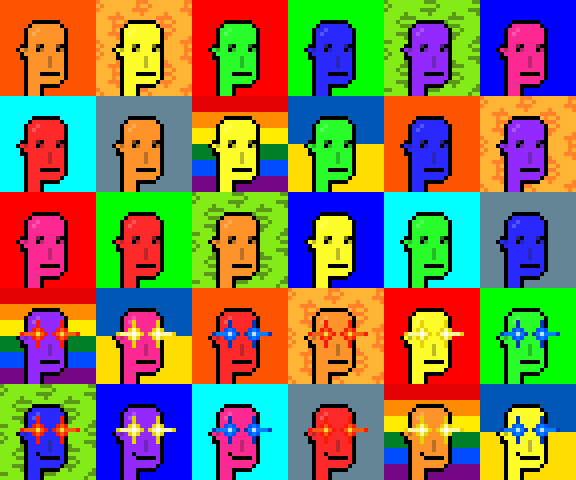
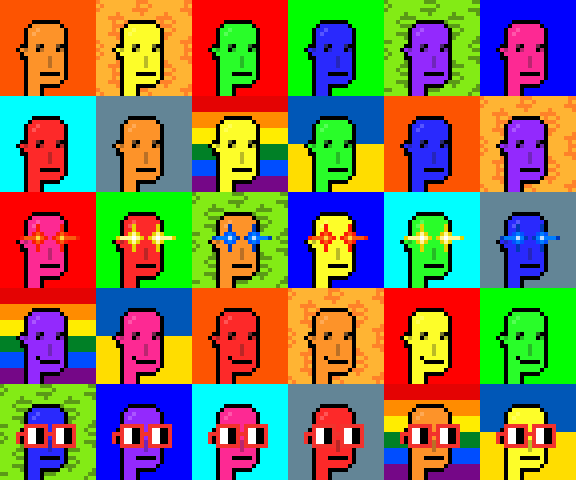
up

diff --git a/sandbox/martians.rb b/sandbox/martians.rb
@@ -102,47 +102,6 @@ composite.zoom(4).save( "./martians/tmp/martians-smile@4x.png" )
 
 
 
-composite = ImageComposite.new( 10, 1, width: 24,
-                                      height: 24 )
-
-backgrounds.each do |name|
-   composite << Image.read( "./martians/backgrounds/#{name}.png" )
-end
-
-composite.save( "./martians/tmp/backgrounds.png" )
-composite.zoom(4).save( "./martians/tmp/backgrounds@4x.png" )
-
-
-composite = ImageComposite.new( 6, 5, width: 24,
-                                      height: 24 )
-
-3.times do |n|
-   backgrounds.each_with_index do |name,m|
-       img = Image.new( 24, 24 )
-       img.compose!( Image.read( "./martians/backgrounds/#{name}.png" ))
-       i = n*10+m
-       base_name = base[ i % base.size ]
-       img.compose!( Image.read( "./martians/#{base_name}.png"))
-
-       if i > 17
-         lasereyes_name = lasereyes[ i % lasereyes.size ]
-         img.compose!( Image.read( "./martians/#{lasereyes_name}.png"))
-      end
-
-       if i > 23
-         img.compose!( smile )
-       end
-
-       composite << img
-   end
-end
-
-
-composite.save( "./martians/tmp/martians-backgrounds.png" )
-composite.zoom(4).save( "./martians/tmp/martians-backgrounds@4x.png" )
-
-
-
 
 
 noun    = Image.read( "./martians/noun-glasses.png" )
@@ -187,6 +146,55 @@ end
 
 composite.save( "./martians/tmp/martians-noun.png" )
 composite.zoom(4).save( "./martians/tmp/martians-noun@4x.png" )
+
+
+
+
+composite = ImageComposite.new( 10, 1, width: 24,
+                                      height: 24 )
+
+backgrounds.each do |name|
+   composite << Image.read( "./martians/backgrounds/#{name}.png" )
+end
+
+composite.save( "./martians/tmp/backgrounds.png" )
+composite.zoom(4).save( "./martians/tmp/backgrounds@4x.png" )
+
+
+composite = ImageComposite.new( 6, 5, width: 24,
+                                      height: 24 )
+
+3.times do |n|
+   backgrounds.each_with_index do |name,m|
+       img = Image.new( 24, 24 )
+       img.compose!( Image.read( "./martians/backgrounds/#{name}.png" ))
+       i = n*10+m
+       base_name = base[ i % base.size ]
+       img.compose!( Image.read( "./martians/#{base_name}.png"))
+
+       row = i / 6
+
+       if row == 2
+         lasereyes_name = lasereyes[ i % lasereyes.size ]
+         img.compose!( Image.read( "./martians/#{lasereyes_name}.png"))
+       end
+
+       img.compose!( smile )   if row == 3
+
+
+       img.compose!( noun_xl )   if row == 4
+
+
+       composite << img
+   end
+end
+
+
+composite.save( "./martians/tmp/martians-backgrounds.png" )
+composite.zoom(4).save( "./martians/tmp/martians-backgrounds@4x.png" )
+
+
+
 
 
 

diff --git a/diymartians/README.md b/diymartians/README.md
@@ -51,8 +51,6 @@ and a sampling of Martians w/ Laser Eyes in 4x <br>
 **10 Backgrounds in 24×24px in .PNG**
 
 
-laser eyes -> ![](i/lasereyes.png)  (143 bytes) HELP - PLEASE, INSCRIBE!<br>
-
 bitcoin orange -> ![](i/background-bitcoin-orange.png)  (136 bytes) HELP - PLEASE, INSCRIBE!<br>
 bitcoin pattern -> ![](i/background-bitcoin-pattern.png)  (183 bytes) HELP - PLEASE, INSCRIBE!<br>
 red             -> ![](i/background-red.png)  (136 bytes) HELP - PLEASE, INSCRIBE!<br>
